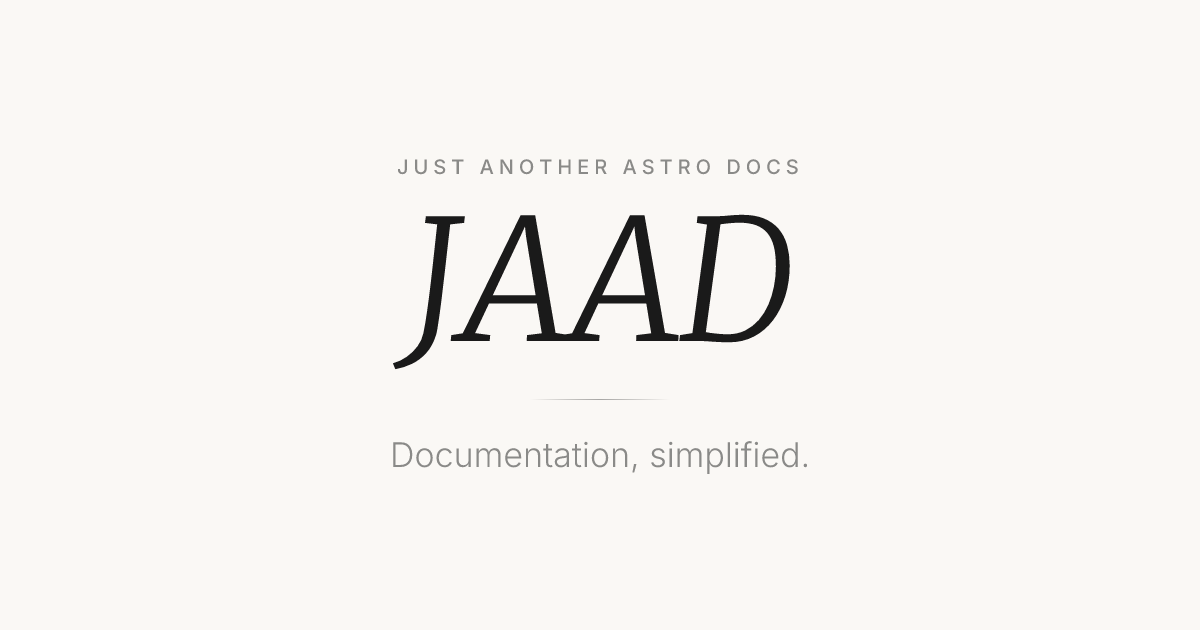
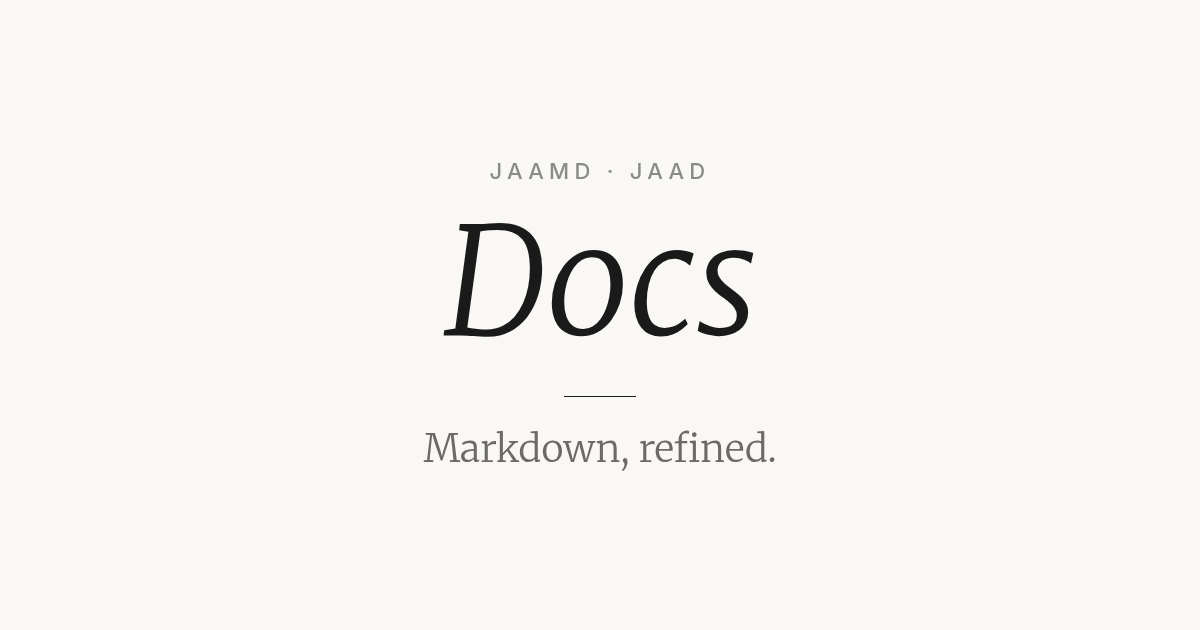
chore: put the refined line on every README header and social image

diff --git a/CONTRIBUTING.md b/CONTRIBUTING.md
@@ -34,6 +34,10 @@ The `site/` project is jaamd.org, the landing page with the live editor: preview
 it with `pnpm --filter site dev`. Its Worker sends the old `jaamd.org/docs/...`
 addresses to docs.jaamd.org. Both projects deploy from `main`.
 
+Every product is written the same way: "Just Another Astro …", the name in
+italic serif, and "<Subject>, refined." (`Markdown, refined.`,
+`Documentation, refined.`), in the README headers and the social images alike.
+
 ## Themes
 
 A theme is a directory under `packages/core/src/themes/<slug>/` plus one entry in

diff --git a/packages/astro/README.md b/packages/astro/README.md
@@ -1,6 +1,11 @@
-<h1 align="center">JAAMD</h1>
 <p align="center">
-  <b>Just Another Astro Markdown</b> — markdown plugins, client-side enhancements and styles as a single Astro integration.
+  <a href="https://docs.jaamd.org/jaamd">
+    <img src="./assets/readme-header.png" alt="JAAMD — Just Another Astro Markdown. Markdown, refined." width="1200" />
+  </a>
+</p>
+
+<p align="center">
+  Markdown plugins, client-side enhancements and styles as a single <a href="https://astro.build">Astro</a> integration.
 </p>
 
 ---

diff --git a/README.md b/README.md
@@ -1,6 +1,6 @@
 <p align="center">
   <a href="https://jaamd.org">
-    <img src="./.github/readme-header.png" alt="JAAMD — Just Another Astro Markdown. Markdown, finished." width="1200" />
+    <img src="./packages/astro/assets/readme-header.png" alt="JAAMD — Just Another Astro Markdown. Markdown, refined." width="1200" />
   </a>
 </p>
 

diff --git a/packages/jaad/README.md b/packages/jaad/README.md
@@ -1,6 +1,6 @@
 <p align="center">
   <a href="https://docs.jaamd.org/jaad">
-    <img src="./assets/readme-header.png" alt="JAAD — Just Another Astro Docs. Documentation, simplified." width="1200" />
+    <img src="./assets/readme-header.png" alt="JAAD — Just Another Astro Docs. Documentation, refined." width="1200" />
   </a>
 </p>
 
